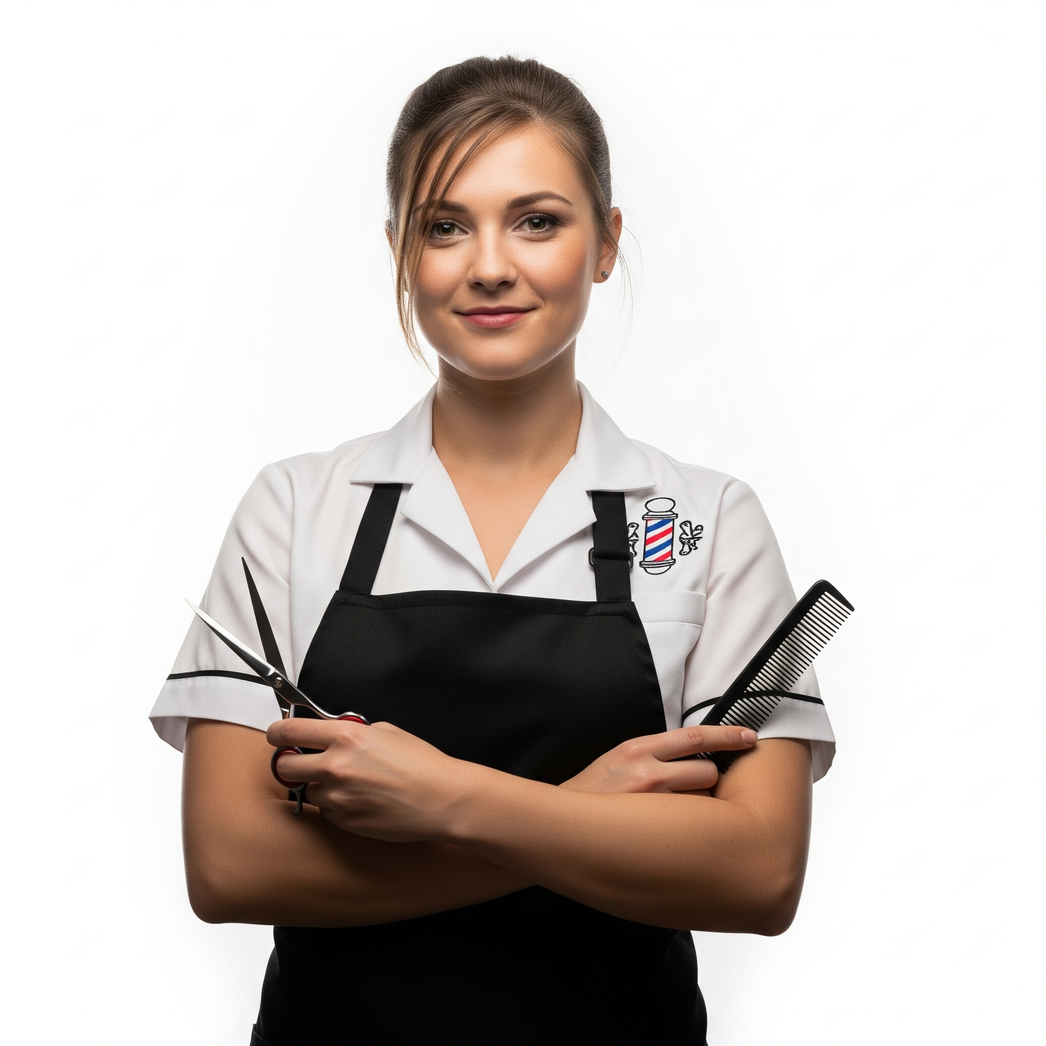
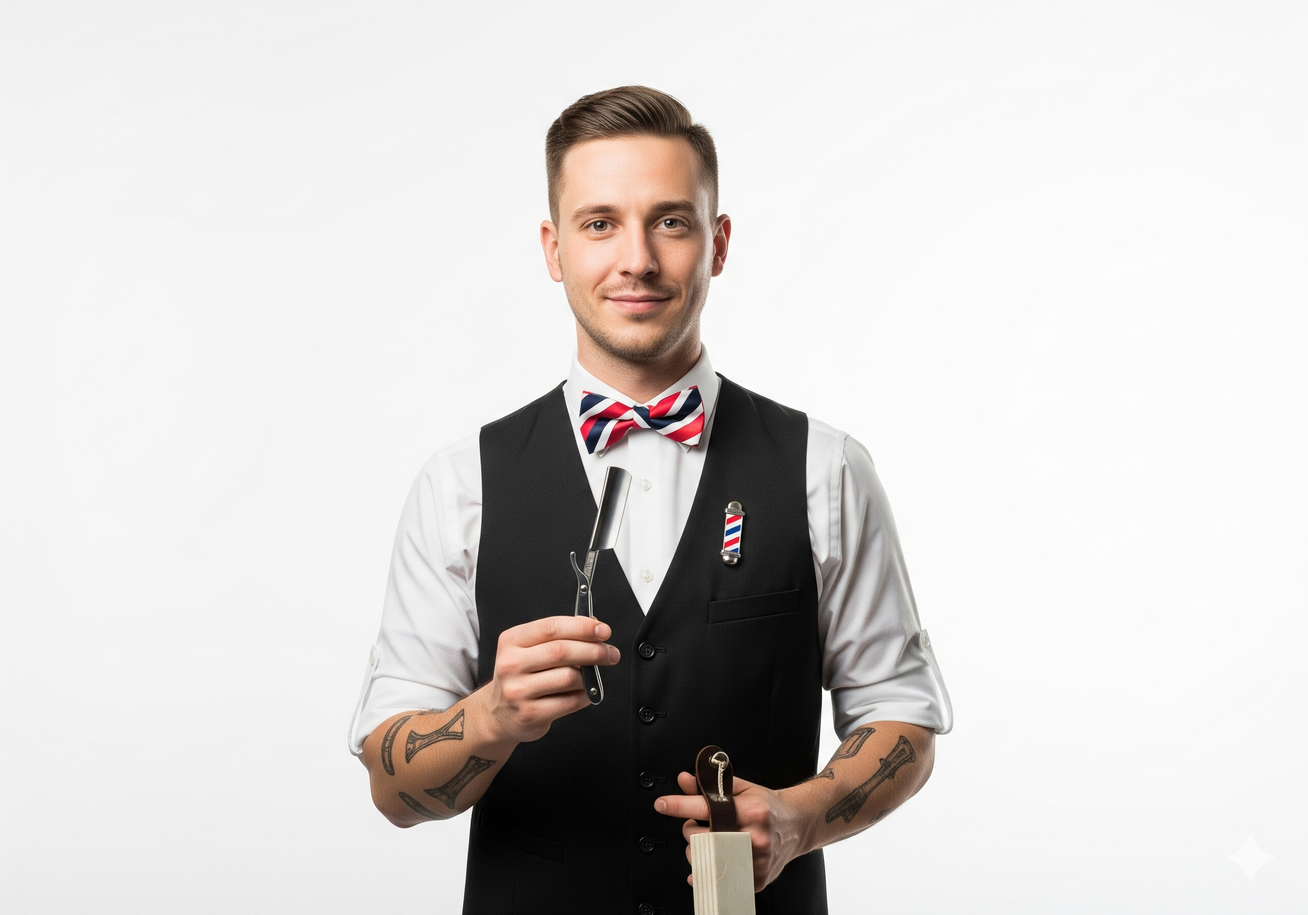
cambiuos

Changed region(s): [[0.125, 0.0312, 0.8125, 1.0]]

diff --git a/src/pages/Booking/BookingSitePublic.jsx b/src/pages/Booking/BookingSitePublic.jsx
@@ -27,7 +27,7 @@ const slug = (s = "") =>
 
 export default function BookingSitePublic() {
   // ya no usamos siteSlug
-  const { bizSlug, branchSlug } = useParams();
+  const { branchSlug } = useParams();
 
   // Confirmación
   const [confirm, setConfirm] = useState(null); // { name, dateText, timeText, mapsQuery }
@@ -95,22 +95,6 @@ export default function BookingSitePublic() {
   // Modal de opciones: { main } | null
   const [optionModal, setOptionModal] = useState(null);
 
-  // Opciones disponibles del main actual o del que esté en modal
-  const optionOpts = useMemo(() => {
-    const base = optionModal?.main || selectedMain;
-    if (!base || !Array.isArray(base.options)) return [];
-    return base.options
-      .filter((o) => o.status !== "inactive")
-      .map((o) => ({
-        id: o.id,
-        name: o.name,
-        description: o.description || "",
-        price: o.price ?? 0,
-        duration: o.duration ?? 0,
-        imageUrl: o.imageUrl || "",
-      }));
-  }, [optionModal, selectedMain]);
-
   // Helper para obtener la opción seleccionada (cuando ya hay main elegido)
   const selectedOption = useMemo(() => {
     if (!selectedMain || !Array.isArray(selectedMain.options)) return null;
@@ -169,7 +153,6 @@ export default function BookingSitePublic() {
     }
     return res;
   };
-  const monthlyDays = daysOfMonth(monthBase);
 
   const generateSlots = (date) => {
     if (!selectedMain) return [];
@@ -1035,35 +1018,12 @@ function Step4Datos({
   const [paymentMethod, setPaymentMethod] = useState("online"); // 'online' | 'store'
   const [showSummary, setShowSummary] = useState(false);
 
-  const extrasNames =
-    extraIds
-      .map((id) => extraCalendars.find((e) => e.id === id)?.name)
-      .filter(Boolean) || [];
-  const staffName =
-    staffChoice === "random"
-      ? "Aleatorio"
-      : staff.find((s) => s.id === staffChoice)?.name;
       // ==== Desglose base / opción / extras ====
 const basePrice = Number(selectedMain?.price || 0);
 const baseDuration = Number(selectedMain?.duration || 0);
 
 const optPrice = selectedOption?.price != null ? Number(selectedOption.price) : 0;
 const optDuration = selectedOption?.duration != null ? Number(selectedOption.duration) : 0;
-
-const extrasBreakdown = (extraIds || [])
-  .map((id) => {
-    const ex = extraCalendars.find((e) => e.id === id);
-    if (!ex) return null;
-    return {
-      id,
-      name: ex.name,
-      price: Number(ex.price ?? 0) || 0,
-      duration: Number(ex.duration ?? 0) || 0,
-      imageUrl: ex.imageUrl || "",
-    };
-  })
-  .filter(Boolean);
-
 
   return (
     <section className={clsx(glass, "p-4")}>
@@ -1345,7 +1305,7 @@ function Field({ label, children }) {
 
 /* ===================== Confirmación ===================== */
 function ConfirmationScreen({ confirm, onClose }) {
-  const { name, dateText, timeText, mapsQuery } = confirm;
+  const { dateText, timeText, mapsQuery } = confirm;
   const line1 = "Cita reservada con éxito";
   const line3 = `${dateText} a las ${timeText}`;
   const mapsSrc = `https://www.google.com/maps?q=${encodeURIComponent(

diff --git a/src/components/common/SelectableGallery.jsx b/src/components/common/SelectableGallery.jsx
@@ -205,7 +205,7 @@ function TableView({
 /* Imagen arriba visible COMPLETA; datos en panel sólido debajo + acciones extra opcionales */
 function CardsView({ items, toCard, selected, toggleOne }) {
   return (
-    <div className="grid gap-3 sm:grid-cols-2 lg:grid-cols-3">
+    <div className="grid gap-3 grid-cols-1 sm:grid-cols-2 lg:grid-cols-3 2xl:grid-cols-4">
       {items.map((it) => {
         const {
           id,
@@ -221,25 +221,28 @@ function CardsView({ items, toCard, selected, toggleOne }) {
             key={id}
             className="overflow-hidden border rounded-2xl border-white/10 bg-white/5"
           >
-            {/* Imagen arriba */}
-            <div className="relative w-full h-48 bg-white">
-              <img
-                src={imageUrl}
-                alt=""
-                className="absolute object-cover w-auto h-full -translate-x-1/2 -translate-y-1/2 select-none left-1/2 top-1/2 max-w-none"
-                draggable={false}
-              />
-              {/* Checkbox selección */}
-              <label className="absolute inline-flex items-center gap-2 px-2 py-1 text-xs border rounded-lg left-2 top-2 border-white/10 bg-black/35 backdrop-blur">
-                <input
-                  type="checkbox"
-                  className="size-3.5 rounded border-white/20 bg-white/10"
-                  checked={selected.includes(id)}
-                  onChange={() => toggleOne(id)}
-                />
-                Seleccionar
-              </label>
-            </div>
+            {/* Imagen arriba - ratio 4:3 */}
+<div className="relative w-full pb-[75%] bg-white">
+  <img
+    src={imageUrl}
+    alt=""
+    loading="lazy"
+    decoding="async"
+    className="absolute inset-0 w-full h-full object-cover select-none"
+    draggable={false}
+  />
+  {/* Checkbox selección */}
+  <label className="absolute inline-flex items-center gap-2 px-2 py-1 text-xs border rounded-lg left-2 top-2 border-white/10 bg-black/35 backdrop-blur">
+    <input
+      type="checkbox"
+      className="size-3.5 rounded border-white/20 bg-white/10"
+      checked={selected.includes(id)}
+      onChange={() => toggleOne(id)}
+    />
+    Seleccionar
+  </label>
+</div>
+
 
             {/* Datos sólidos */}
             <div className="p-3">

diff --git a/src/api/calendars.js b/src/api/calendars.js
@@ -18,7 +18,7 @@ let memCategories = [
 let memStaff = [
   {
     id: "stf_1",
-    name: "Laura",
+    name: "Alberto",
     imageUrl: Staff1,
     bio: "Especialista en color y tratamientos.",
     color: "#820096",
